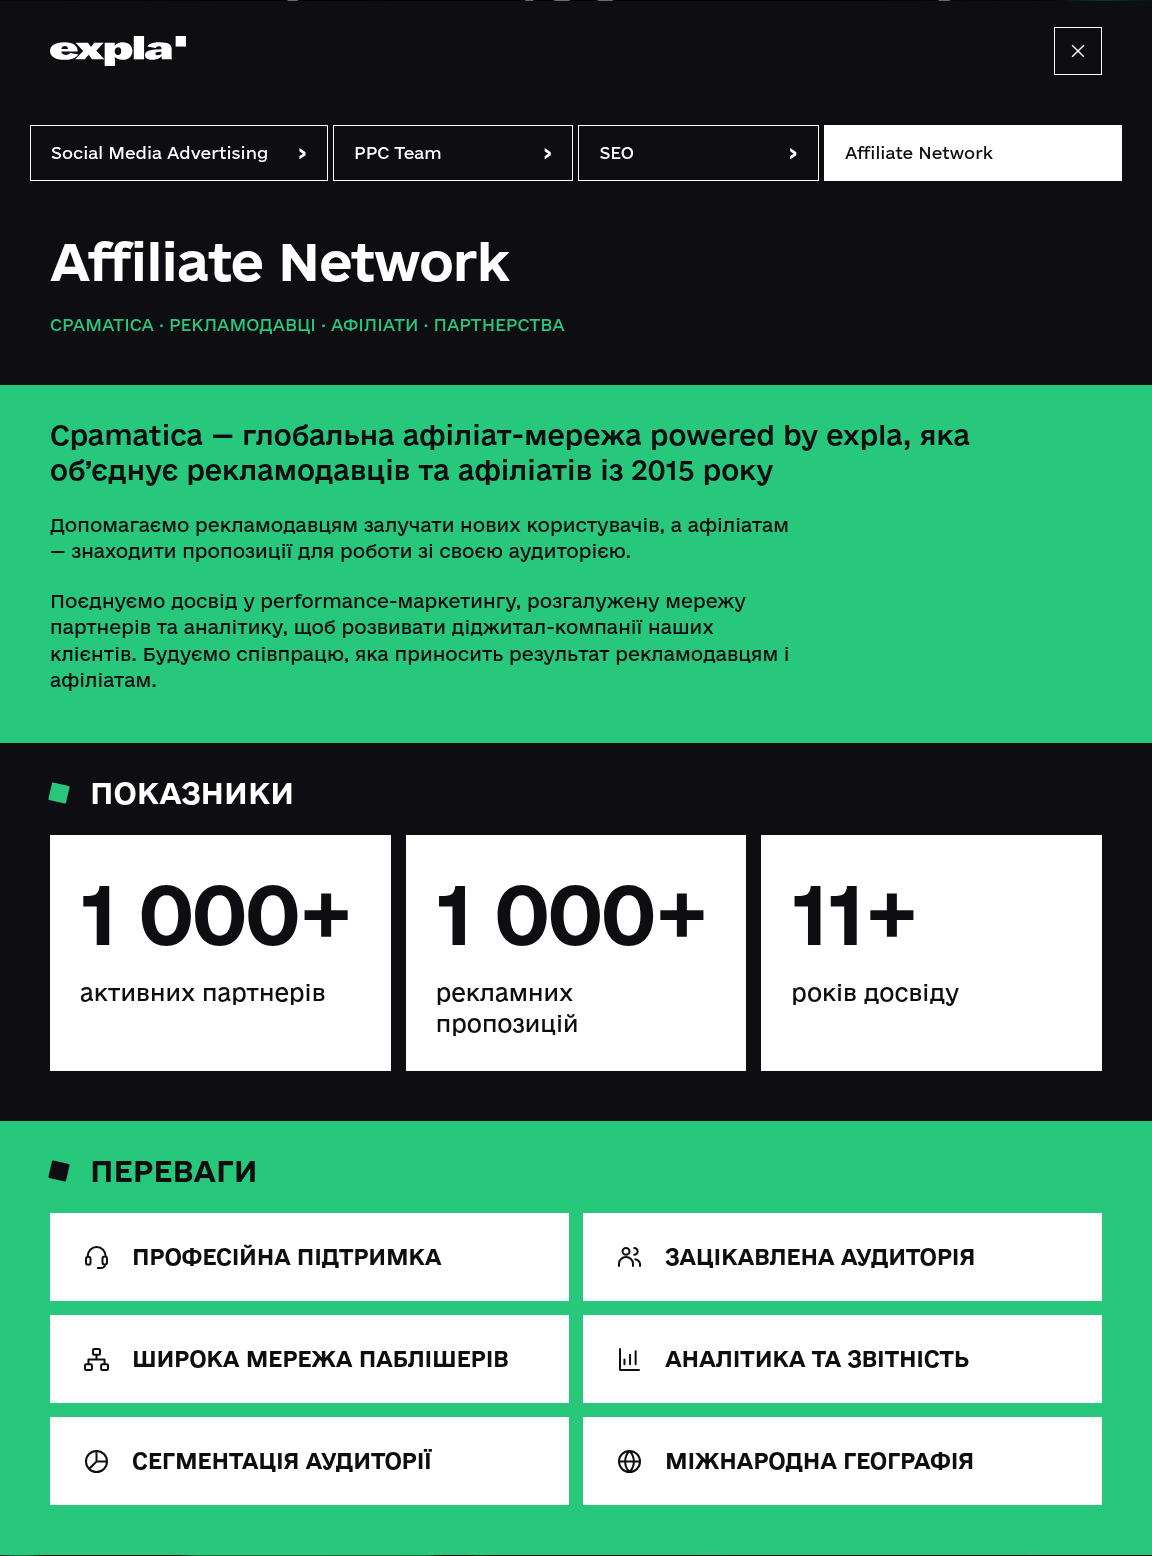
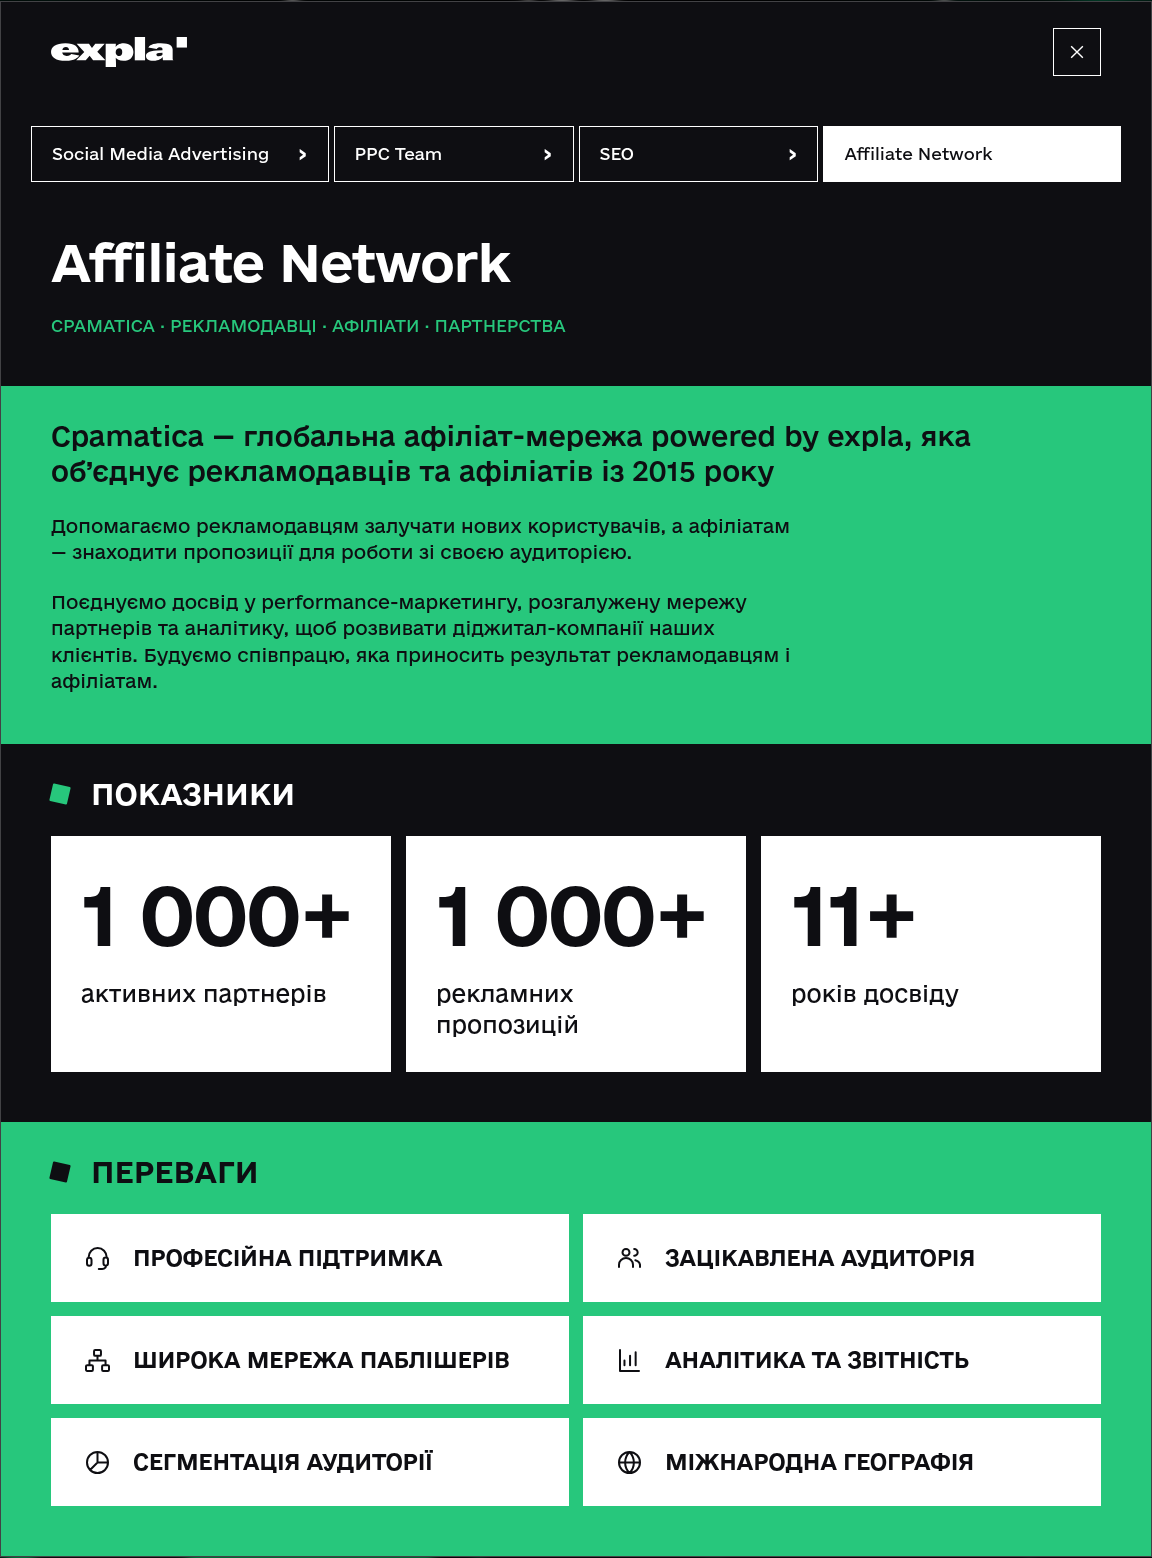
Add a subtle thirty-percent gray border around popups

diff --git a/src/style.css b/src/style.css
@@ -161,3 +161,5 @@
   .direction-dialog .direction-options{max-height:calc(100svh - 170px - env(safe-area-inset-top))}
   .direction-dialog{scroll-padding-top:160px}
 }
+/* Subtle outline around each popup, including full-screen mobile dialogs. */
+.info-dialog,.info-dialog.direction-dialog{border:1px solid rgb(190 190 190 / 30%)}
